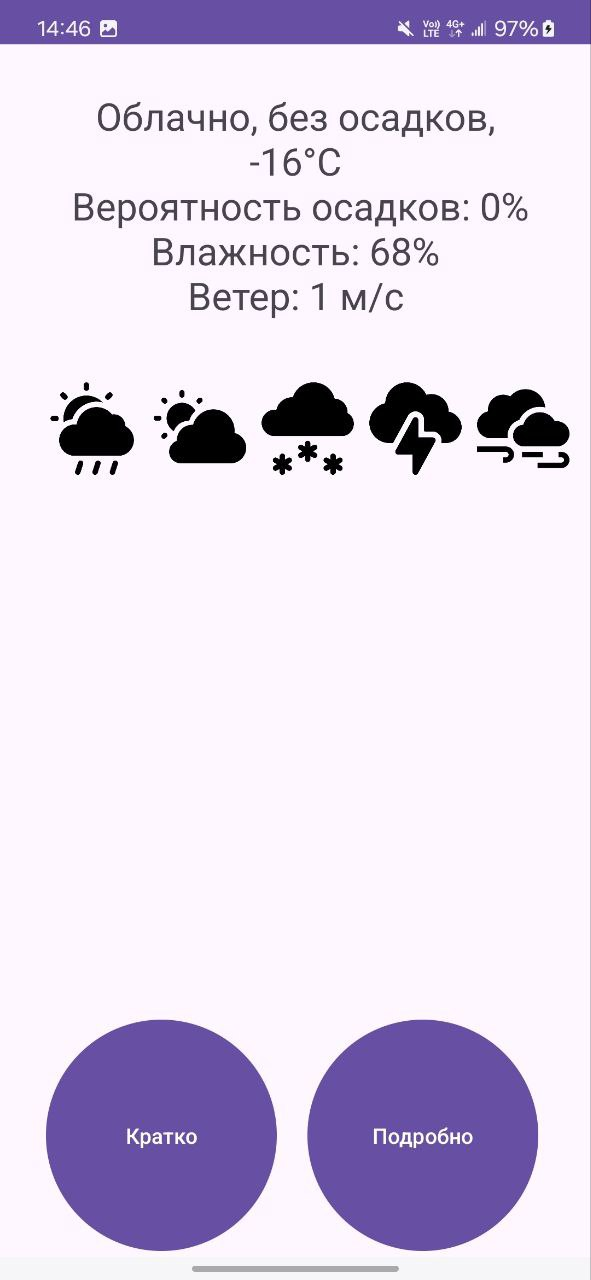
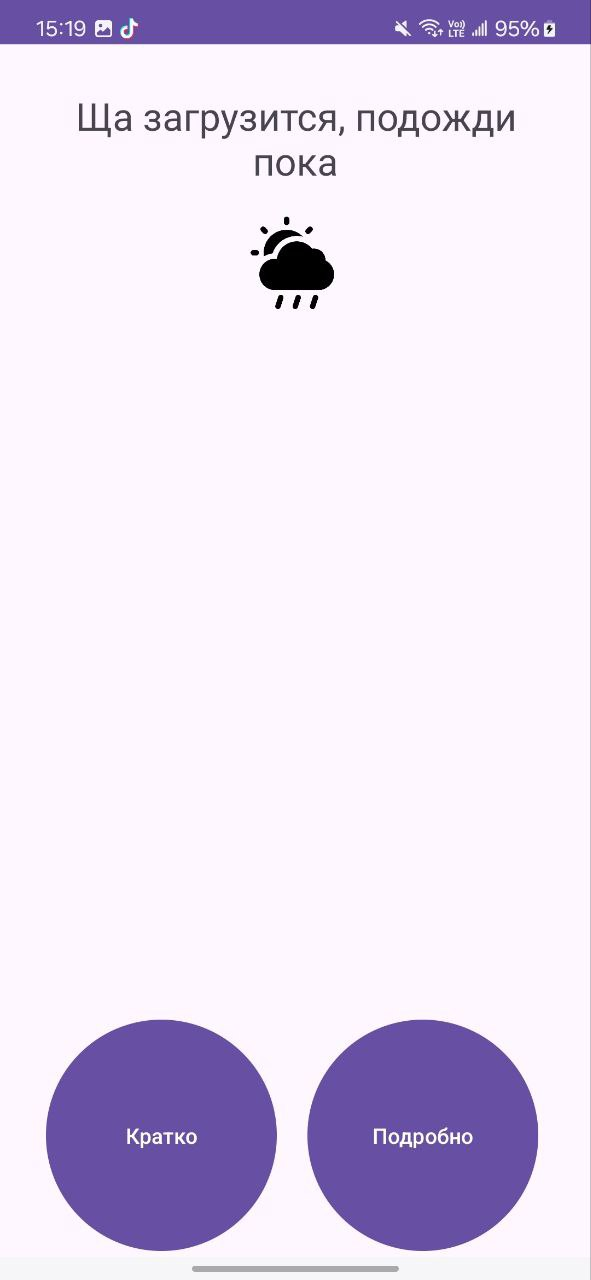
Updated fragment homework

diff --git a/Fragment/app/src/main/java/com/example/fragment/DetailedWeatherFragment.kt b/Fragment/app/src/main/java/com/example/fragment/DetailedWeatherFragment.kt
@@ -1,10 +1,26 @@
 package com.example.fragment
 
 import android.os.Bundle
+import android.util.Log
 import androidx.fragment.app.Fragment
 import android.view.LayoutInflater
 import android.view.View
 import android.view.ViewGroup
+import android.widget.ImageView
+import android.widget.TextView
+import androidx.lifecycle.lifecycleScope
+import com.google.gson.Gson
+import com.google.gson.JsonParser
+import kotlinx.coroutines.Dispatchers
+import kotlinx.coroutines.GlobalScope
+import kotlinx.coroutines.launch
+import kotlinx.coroutines.withContext
+import org.w3c.dom.Text
+import java.io.InputStream
+import java.io.InputStreamReader
+import java.net.HttpURLConnection
+import java.net.URL
+import java.util.Scanner
 
 // TODO: Rename parameter arguments, choose names that match
 // the fragment initialization parameters, e.g. ARG_ITEM_NUMBER
@@ -20,13 +36,18 @@ class DetailedWeatherFragment : Fragment() {
     // TODO: Rename and change types of parameters
     private var param1: String? = null
     private var param2: String? = null
+    private var weather_text: Weather = Weather()
+    private var lang: String = "ru"
+    private var sc: Scanner? = null
+    private var key: String = "c25f13190379f58bcfa4d76cdc9551c8"
+
 
     override fun onCreate(savedInstanceState: Bundle?) {
         super.onCreate(savedInstanceState)
-        arguments?.let {
-            param1 = it.getString(ARG_PARAM1)
-            param2 = it.getString(ARG_PARAM2)
-        }
+//        arguments?.let {
+//            param1 = it.getString(ARG_PARAM1)
+//            param2 = it.getString(ARG_PARAM2)
+//        }
     }
 
     override fun onCreateView(
@@ -34,7 +55,58 @@ class DetailedWeatherFragment : Fragment() {
         savedInstanceState: Bundle?
     ): View? {
         // Inflate the layout for this fragment
-        return inflater.inflate(R.layout.fragment_detailed_weather, container, false)
+        val view: View = inflater!!.inflate(R.layout.fragment_detailed_weather, container, false)
+        val weatherInfoTextView = view.findViewById<TextView>(R.id.weather_info)
+        val weatherImageView = view.findViewById<ImageView>(R.id.weather_image)
+
+        lifecycleScope.launch {
+            val weather = withContext(Dispatchers.IO) {
+                getWeather(key, lang)
+            }
+
+            weatherInfoTextView.text = buildString {
+                append("В Иркутске сегодня ${weather.weather.get(0).description}\n")
+                append("Температура: ${weather.main.temp}°C, ощущается как: ${weather.main.feels_like}°C\n")
+                append("Ветер ${getWindDirection(weather.wind.deg.toDouble()).toLowerCase()}, ${weather.wind.speed} м/с")
+            }
+            val weather_type = weather.weather.get(0).main
+            weatherImageView.setImageResource(when {
+                weather_type.toLowerCase() == "cнег" -> R.drawable.snow
+                weather_type.toLowerCase() == "гроза" -> R.drawable.thunder
+                weather_type.toLowerCase() == "ветрено" -> R.drawable.windy
+                weather_type.toLowerCase() == "дождь" -> R.drawable.rainy
+                else -> R.drawable.clouds_and_sun
+            })
+
+        }
+
+        return view
+    }
+
+    suspend fun getWeather(key: String, lang: String): Weather {
+        val API_URL = "https://api.openweathermap.org/data/2.5/weather?q=Irkutsk&lang=ru&appid=${key}&units=metric"
+
+        val stream = URL(API_URL).getContent() as InputStream
+        // JSON отдаётся одной строкой,
+        val data = Scanner(stream).nextLine()
+        Log.d("mytag", data)
+        val gson = Gson()
+        return gson.fromJson(data, Weather::class.java)
+    }
+
+    fun getWindDirection(degrees: Double): String {
+        return when {
+            degrees < 0 || degrees >= 360 -> "Некорректное значение"
+            degrees < 22.5 || degrees >= 337.5 -> "Северный"
+            degrees < 67.5 -> "Северо-восточный"
+            degrees < 112.5 -> "Восточный"
+            degrees < 157.5 -> "Юго-восточный"
+            degrees < 202.5 -> "Южный"
+            degrees < 247.5 -> "Юго-западный"
+            degrees < 292.5 -> "Западный"
+            degrees < 337.5 -> "Северо-западный"
+            else -> "Некорректное значение"
+        }
     }
 
     companion object {

diff --git a/Fragment/app/src/main/java/com/example/fragment/WeatherFragment.kt b/Fragment/app/src/main/java/com/example/fragment/WeatherFragment.kt
@@ -1,15 +1,23 @@
 package com.example.fragment
 
 import android.os.Bundle
+import android.util.Log
 import androidx.fragment.app.Fragment
 import android.view.LayoutInflater
 import android.view.View
 import android.view.ViewGroup
+import android.widget.TextView
+import kotlinx.coroutines.Dispatchers
+import kotlinx.coroutines.GlobalScope
+import kotlinx.coroutines.launch
+import org.w3c.dom.Text
+import java.io.OutputStream
+import java.net.HttpURLConnection
+import java.net.URL
+import java.util.Scanner
 
 // TODO: Rename parameter arguments, choose names that match
 // the fragment initialization parameters, e.g. ARG_ITEM_NUMBER
-private const val ARG_PARAM1 = "param1"
-private const val ARG_PARAM2 = "param2"
 
 /**
  * A simple [Fragment] subclass.
@@ -18,15 +26,9 @@ private const val ARG_PARAM2 = "param2"
  */
 class WeatherFragment : Fragment() {
     // TODO: Rename and change types of parameters
-    private var param1: String? = null
-    private var param2: String? = null
 
     override fun onCreate(savedInstanceState: Bundle?) {
         super.onCreate(savedInstanceState)
-        arguments?.let {
-            param1 = it.getString(ARG_PARAM1)
-            param2 = it.getString(ARG_PARAM2)
-        }
     }
 
     override fun onCreateView(
@@ -37,7 +39,9 @@ class WeatherFragment : Fragment() {
         return inflater.inflate(R.layout.fragment_weather, container, false)
     }
 
-    companion object {
+
+
+        companion object {
         /**
          * Use this factory method to create a new instance of
          * this fragment using the provided parameters.
@@ -51,8 +55,6 @@ class WeatherFragment : Fragment() {
         fun newInstance(param1: String, param2: String) =
             WeatherFragment().apply {
                 arguments = Bundle().apply {
-                    putString(ARG_PARAM1, param1)
-                    putString(ARG_PARAM2, param2)
                 }
             }
     }

diff --git a/Fragment/app/src/main/java/com/example/fragment/Weather.kt b/Fragment/app/src/main/java/com/example/fragment/Weather.kt
@@ -1,0 +1,56 @@
+package com.example.fragment
+
+class Weather{
+    val coord: Coord = Coord()
+    val weather: List<WeatherCondition> = emptyList()
+    val base: String = ""
+    val main: Main = Main()
+    val visibility: Int = 0
+    val wind: Wind = Wind()
+    val clouds: Clouds = Clouds()
+    val dt: Long = 0
+    val timezone: Int = 0
+    val id: Int = 0
+    val name: String = ""
+    val cod: Int = 0
+}
+class Coord{
+    val lon: Float = 0.0f
+    val lat: Float = 0.0f
+}
+
+class WeatherCondition {
+    val id: Int = 0
+    val main: String = ""
+    val description: String = ""
+    val icon: String = ""
+}
+
+class Main {
+    val temp: Float = 0.0f
+    val feels_like: Float = 0.0f
+    val temp_min: Float = 0.0f
+    val temp_max: Float = 0.0f
+    val pressure: Int = 0
+    val humidity: Int = 0
+    val sea_level: Int? = 0
+    val grnd_level: Int? = 0
+}
+
+class Wind{
+    val speed: Float = 0.0f
+    val deg: Int = 0
+    val gust: Float? = 0.0f
+}
+
+class Clouds {
+    val all: Int = 0
+}
+
+data class Sys(
+    val type: Int,
+    val id: Int,
+    val country: String,
+    val sunrise: Long,
+    val sunset: Long
+)

diff --git a/Fragment/README.md b/Fragment/README.md
@@ -5,3 +5,6 @@
 
 ## 2:
 ![image](./screen2.jpg)
+
+## 3:
+![image](./screen3.jpg)
